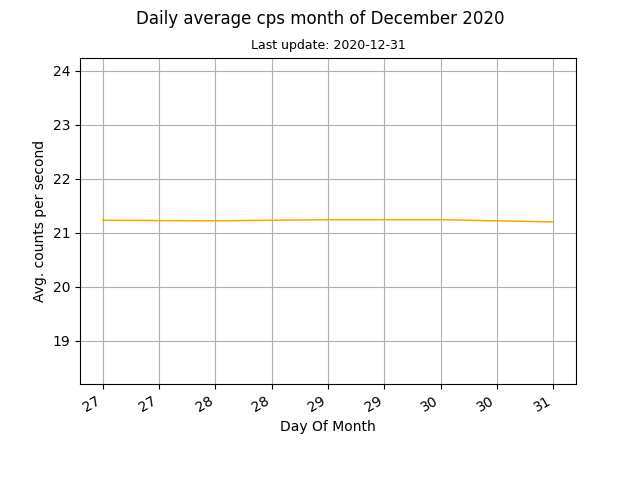
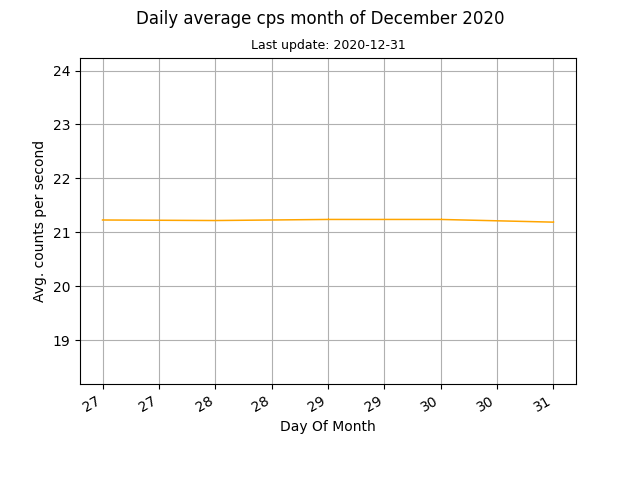
auto data update

diff --git a/docs/index.html b/docs/index.html
@@ -45,8 +45,8 @@
 	
 	<br>
 	
-	<p>Current counts per second (cps): 21.51</p>
-	<p>Last update: 2020-12-31, 04:20</p>
+	<p>Current counts per second (cps): 21.03</p>
+	<p>Last update: 2020-12-31, 04:35</p>
 
 	<p><a href="images/monthly.png"><img src="images/monthly.png" alt="Mothly avg cps data"></a><a href="images/daily.png"><img src="images/daily.png" alt="Daily avg cps data"></a></p>
 	
